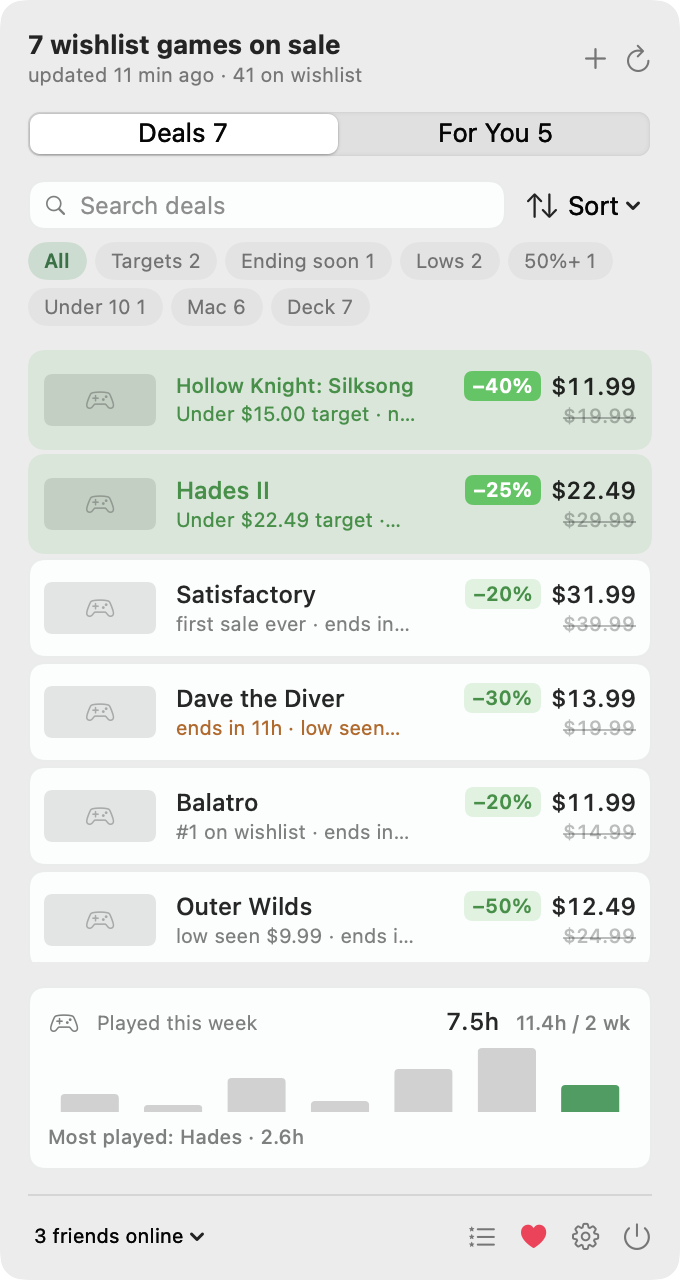
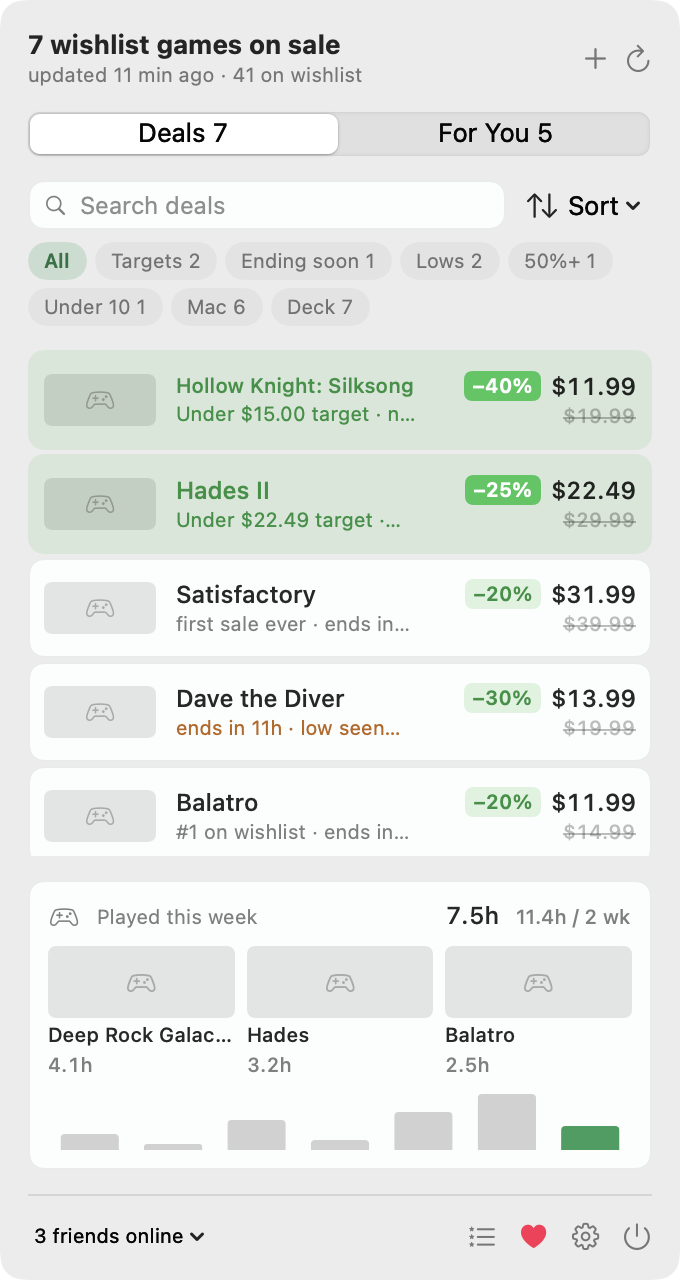
Fix the false 'API key rejected' error; playtime card shows game art
GetFriendList answers 401 for a valid key when the friends list is private,
which was reported as a rejected key. It now means 'no friends shown', with a
hint in Settings. Owned games are fetched on refresh (every six hours), not
only alongside suggestions. The playtime card scales its bars to a real
range, leads with the two-week total until daily data exists, and shows the
three most-played games' art. Adds --check-key.

Changed region(s): [[0.0618, 0.6875, 0.9265, 0.9062]]

diff --git a/Sources/Steamwatch/PopoverView.swift b/Sources/Steamwatch/PopoverView.swift
@@ -550,34 +550,73 @@ struct PlaytimeCard: View {
     var body: some View {
         let days = store.playtime.daily(days: 7, now: store.now)
         let week = days.reduce(0) { $0 + $1.minutes }
-        VStack(alignment: .leading, spacing: 6) {
+        // Daily bars need a day of samples; until then the honest number is Steam's two-week total.
+        let tracking = week > 0 || store.playtime.samples.count > 1 && (store.playtime.samples.first.map { store.now.timeIntervalSince($0.date) > 86_400 } ?? false)
+        let peak = max(60, days.map(\.minutes).max() ?? 0)
+        let recent = store.recentGames.sorted { $0.minutesTwoWeeks > $1.minutesTwoWeeks }.prefix(3)
+        VStack(alignment: .leading, spacing: 8) {
             HStack(alignment: .firstTextBaseline) {
-                Label("Played this week", systemImage: "gamecontroller").font(.caption).foregroundStyle(.secondary)
+                Label(tracking ? "Played this week" : "Played in the last 2 weeks", systemImage: "gamecontroller")
+                    .font(.caption).foregroundStyle(.secondary)
                 Spacer()
-                Text(Format.hours(week)).font(.callout.weight(.medium)).monospacedDigit()
-                if let avg = store.playtime.weeklyAverageMinutes(now: store.now) {
+                Text(Format.hours(tracking ? week : store.twoWeekMinutes)).font(.callout.weight(.medium)).monospacedDigit()
+                if tracking, let avg = store.playtime.weeklyAverageMinutes(now: store.now) {
                     Text("avg \(Format.hours(avg))").font(.caption2).foregroundStyle(.secondary)
-                } else if store.twoWeekMinutes > 0 {
+                } else if tracking, store.twoWeekMinutes > 0 {
                     Text("\(Format.hours(store.twoWeekMinutes)) / 2 wk").font(.caption2).foregroundStyle(.secondary)
                 }
             }
-            Chart(days) { day in
-                BarMark(x: .value("Day", day.day, unit: .day), y: .value("Minutes", max(day.minutes, 2)))
-                    .foregroundStyle(Calendar.current.isDateInToday(day.day) ? Color(ns: Theme.accent) : Color.secondary.opacity(0.35))
-                    .cornerRadius(2)
+            if !recent.isEmpty {
+                HStack(spacing: 6) {
+                    ForEach(Array(recent)) { g in
+                        VStack(alignment: .leading, spacing: 2) {
+                            GameArt(appID: g.appID)
+                            Text(g.name).font(.caption2).lineLimit(1)
+                            Text(Format.hours(g.minutesTwoWeeks)).font(.caption2).foregroundStyle(.secondary).monospacedDigit()
+                        }
+                        .frame(maxWidth: .infinity, alignment: .leading)
+                        .contentShape(Rectangle())
+                        .onTapGesture { SteamLink.open(URL(string: "https://store.steampowered.com/app/\(g.appID)/")!) }
+                        .help("\(g.name): \(Format.hours(g.minutesTwoWeeks)) in the last two weeks, \(Format.hours(g.minutesForever)) in total")
+                    }
+                    ForEach(0..<(3 - recent.count), id: \.self) { _ in Color.clear.frame(maxWidth: .infinity) }
+                }
             }
-            .chartXAxis(.hidden).chartYAxis(.hidden)
-            .frame(height: 32)
-            if let top = store.playtime.mostPlayed(now: store.now) {
-                Text("Most played: \(top.name) · \(Format.hours(top.minutes))").font(.caption2).foregroundStyle(.secondary).lineLimit(1)
-            } else if let top = store.recentGames.max(by: { $0.minutesTwoWeeks < $1.minutesTwoWeeks }) {
-                Text("Recent: \(top.name) · \(Format.hours(top.minutesTwoWeeks)) in 2 wk").font(.caption2).foregroundStyle(.secondary).lineLimit(1)
+            if tracking {
+                Chart(days) { day in
+                    BarMark(x: .value("Day", day.day, unit: .day), y: .value("Minutes", day.minutes))
+                        .foregroundStyle(Calendar.current.isDateInToday(day.day) ? Color(ns: Theme.accent) : Color.secondary.opacity(0.35))
+                        .cornerRadius(2)
+                }
+                // A fixed floor keeps quiet days looking quiet instead of stretching to fill.
+                .chartYScale(domain: 0...peak)
+                .chartXAxis(.hidden).chartYAxis(.hidden)
+                .frame(height: 28)
+            } else if store.recentGames.isEmpty {
+                Text("Nothing played in the last two weeks.").font(.caption2).foregroundStyle(.secondary)
             } else {
-                Text("Daily bars fill in as Steamwatch keeps watching.").font(.caption2).foregroundStyle(.secondary)
+                Text("Daily bars fill in from today as Steamwatch keeps watching.").font(.caption2).foregroundStyle(.tertiary)
             }
         }
         .padding(10)
         .card()
+    }
+}
+
+/// Steam's capsule art for any app, straight from its CDN by ID (recently played games don't come
+/// with store data). Placeholder while loading, or in demo mode.
+struct GameArt: View {
+    let appID: AppID
+    var body: some View {
+        AsyncImage(url: Demo.isActive ? nil : URL(string: "https://cdn.cloudflare.steamstatic.com/steam/apps/\(appID)/capsule_231x87.jpg")) { image in
+            image.resizable().aspectRatio(contentMode: .fill)
+        } placeholder: {
+            RoundedRectangle(cornerRadius: 4).fill(.quaternary)
+                .overlay(Image(systemName: "gamecontroller").font(.caption2).foregroundStyle(.tertiary))
+        }
+        .frame(height: 36)
+        .frame(maxWidth: .infinity)
+        .clipShape(RoundedRectangle(cornerRadius: 4))
     }
 }
 

diff --git a/Sources/SteamwatchCore/SteamClient.swift b/Sources/SteamwatchCore/SteamClient.swift
@@ -9,6 +9,7 @@ public enum SteamError: Error, LocalizedError, Equatable {
     case badAPIKey
     case missingAPIKey
     case privateProfile
+    case privateFriends
     case vanityNotFound
     case decoding(String)
     case transport(String)
@@ -20,6 +21,7 @@ public enum SteamError: Error, LocalizedError, Equatable {
         case .badAPIKey: return "Steam rejected the API key."
         case .missingAPIKey: return "This needs a Steam Web API key."
         case .privateProfile: return "The profile or its game details are private."
+        case .privateFriends: return "Your friends list is private, so friends online can't be shown."
         case .vanityNotFound: return "No Steam profile has that custom URL."
         case .decoding(let m): return "Unexpected response from Steam (\(m))."
         case .transport(let m): return m
@@ -226,13 +228,17 @@ public struct SteamClient: Sendable {
                               struct L: Decodable { let friends: [F] }
                               struct Resp: Decodable { let friendslist: L? }; let friendslist: L? }
         // Steam wraps this one differently from the IPlayerService calls: {"friendslist":{"friends":[…]}}.
-        let r: R = try await get("ISteamUser/GetFriendList/v1/", [("steamid", steamID), ("relationship", "friend")], keyed: true)
+        let r: R = try await get("ISteamUser/GetFriendList/v1/", [("steamid", steamID), ("relationship", "friend")], keyed: true,
+                                 unauthorized: .privateFriends)
         return (r.friendslist?.friends ?? []).map(\.steamid)
     }
 
     // MARK: Plumbing
 
-    private func get<T: Decodable>(_ path: String, _ query: [(String, String)], keyed: Bool, base: URL = SteamClient.api) async throws -> T {
+    /// `unauthorized` is what a 401/403 means for this call: usually a bad key, but GetFriendList
+    /// answers 401 for a valid key when the friends list is private.
+    private func get<T: Decodable>(_ path: String, _ query: [(String, String)], keyed: Bool, base: URL = SteamClient.api,
+                                   unauthorized: SteamError = .badAPIKey) async throws -> T {
         var items = query.map { URLQueryItem(name: $0.0, value: $0.1) }
         if keyed {
             guard let apiKey, !apiKey.isEmpty else { throw SteamError.missingAPIKey }
@@ -258,7 +264,7 @@ public struct SteamClient: Sendable {
                 case 200..<300:
                     do { return try JSONDecoder().decode(T.self, from: data) }
                     catch { throw SteamError.decoding(String(describing: error).prefix(120).description) }
-                case 401 where keyed, 403 where keyed: throw SteamError.badAPIKey
+                case 401 where keyed, 403 where keyed: throw unauthorized
                 case 401, 403: throw SteamError.privateProfile
                 case 429: failure = .rateLimited
                 case 500...599: failure = .http(status)

diff --git a/Sources/Steamwatch/Store.swift b/Sources/Steamwatch/Store.swift
@@ -247,15 +247,24 @@ final class Store: ObservableObject {
         } catch {
             errors.append(error.localizedDescription)
         }
+        // The library changes rarely; every six hours keeps owned games out of For You.
+        if owned == nil || Date().timeIntervalSince(ownedFetchedAt) > 6 * 3600 {
+            if let games = try? await client.ownedGames(steamID: id) { owned = games; ownedFetchedAt = Date() }
+        }
         if UserDefaults.standard.bool(forKey: SettingsKey.showFriends) {
             do {
                 let ids = try await client.friendIDs(steamID: id)
+                friendsPrivate = false
                 let online = ids.isEmpty ? [] : try await client.playerSummaries(ids).filter(\.isOnline)
                 // In-game friends first, then alphabetical.
                 friendsOnline = online.sorted { a, b in
                     if (a.currentGame == nil) != (b.currentGame == nil) { return a.currentGame != nil }
                     return a.name.localizedCaseInsensitiveCompare(b.name) == .orderedAscending
                 }
+            } catch SteamError.privateFriends {
+                // Not an error: the key works, the user just keeps friends private.
+                friendsPrivate = true
+                friendsOnline = []
             } catch {
                 errors.append(error.localizedDescription)
             }
@@ -410,6 +419,9 @@ final class Store: ObservableObject {
     @Published private(set) var dismissed: Set<AppID> = Set(UserDefaults.standard.array(forKey: SettingsKey.dismissedSuggestions) as? [Int] ?? [])
     /// Owned games, fetched with the API key so suggestions skip them; nil without a key.
     private var owned: Set<AppID>?
+    private var ownedFetchedAt = Date.distantPast
+    /// GetFriendList refused: the friends list is private (the key itself is fine).
+    @Published private(set) var friendsPrivate = false
     private var tagNameCache: [Int: String] = [:]
 
     /// Games the user marked "I already own this"; works without an API key.
@@ -432,6 +444,7 @@ final class Store: ObservableObject {
     func saveAPIKey(_ key: String) {
         Keychain.save(key.trimmingCharacters(in: .whitespacesAndNewlines), .apiKey)
         owned = nil
+        ownedFetchedAt = .distantPast
         Task {
             await refresh(force: true)
             await refreshSuggestions(force: true)

diff --git a/Sources/Steamwatch/Entry.swift b/Sources/Steamwatch/Entry.swift
@@ -14,6 +14,7 @@ enum Entry {
         if args.contains("--once") { runOnce() }
         if let i = args.firstIndex(of: "--search"), i + 1 < args.count { runSearch(args[i + 1]) }
         if args.contains("--suggest") { runSuggest() }
+        if args.contains("--check-key") { runCheckKey() }
         if args.contains("--check-update") || args.contains("--update") {
             runUpdate(install: args.contains("--update"))
         }
@@ -42,6 +43,34 @@ enum Entry {
 }
 
 extension Entry {
+    /// `--check-key`: try each call that needs the Web API key and print its HTTP status. The key
+    /// itself is never printed.
+    @MainActor
+    static func runCheckKey() -> Never {
+        let store = Store()
+        Task { @MainActor in
+            guard let key = store.apiKey, !key.isEmpty else { print("no API key saved"); exit(1) }
+            let id = store.steamID
+            print("key: \(key.count) characters, \(key.allSatisfy(\.isHexDigit) ? "hex" : "NOT hex (expected 32 hex characters)")")
+            let calls: [(String, [(String, String)])] = [
+                ("IPlayerService/GetRecentlyPlayedGames/v1/", [("steamid", id)]),
+                ("ISteamUser/GetPlayerSummaries/v2/", [("steamids", id)]),
+                ("ISteamUser/GetFriendList/v1/", [("steamid", id), ("relationship", "friend")]),
+                ("IPlayerService/GetOwnedGames/v1/", [("steamid", id), ("include_played_free_games", "1")]),
+            ]
+            for (path, query) in calls {
+                var comps = URLComponents(url: SteamClient.api.appendingPathComponent(path), resolvingAgainstBaseURL: false)!
+                comps.queryItems = query.map { URLQueryItem(name: $0.0, value: $0.1) } + [URLQueryItem(name: "key", value: key)]
+                let (data, status) = (try? await URLSessionTransport().get(comps.url!)) ?? (Data(), -1)
+                let body = String(decoding: data.prefix(80), as: UTF8.self).replacingOccurrences(of: key, with: "<key>")
+                print("\(status)\t\(path)\t\(status == 200 ? "\(data.count) bytes" : body)")
+            }
+            exit(0)
+        }
+        RunLoop.main.run()
+        exit(0)
+    }
+
     /// `--suggest`: refresh, then fetch and print suggestions (ignores the twice-a-day limit).
     @MainActor
     static func runSuggest() -> Never {

diff --git a/Sources/Steamwatch/SettingsView.swift b/Sources/Steamwatch/SettingsView.swift
@@ -119,6 +119,11 @@ struct SettingsView: View {
                 }
                 Toggle("Playtime section", isOn: $showPlaytime)
                 Toggle("Friends online", isOn: $showFriends)
+                    .help(store.friendsPrivate ? "Your friends list is private on Steam, so nobody can be shown." : "Needs a Web API key and a public friends list.")
+                if store.friendsPrivate, showFriends {
+                    Text("Your Steam friends list is private, so friends online stays empty. Steam → Edit Profile → Privacy → Friends List: Public to change that.")
+                        .font(.caption).foregroundStyle(.secondary)
+                }
                 Toggle("“You might like” suggestions", isOn: $showSuggestions)
                     .onChange(of: showSuggestions) { _, on in if on { Task { await store.refreshSuggestions(force: true) } } }
                     .help("Discounted, well-reviewed games that share tags with your wishlist. Checked twice a day.")

diff --git a/Tests/SteamwatchCoreTests/CoreTests.swift b/Tests/SteamwatchCoreTests/CoreTests.swift
@@ -572,6 +572,10 @@ final class WireDecodingTests: XCTestCase {
         do { _ = try await noKey.recentlyPlayed(steamID: "1"); XCTFail() } catch { XCTAssertEqual(error as? SteamError, .missingAPIKey) }
         let badKey = SteamClient(transport: Stub(status: 403), apiKey: "x", retryDelays: [])
         do { _ = try await badKey.recentlyPlayed(steamID: "1"); XCTFail() } catch { XCTAssertEqual(error as? SteamError, .badAPIKey) }
+        let privateFriends = SteamClient(transport: Stub(status: 401), apiKey: "x", retryDelays: [])
+        do { _ = try await privateFriends.friendIDs(steamID: "1"); XCTFail() } catch {
+            XCTAssertEqual(error as? SteamError, .privateFriends, "GetFriendList's 401 means a private list, not a bad key")
+        }
         let limited = SteamClient(transport: Stub(status: 429), retryDelays: [0])
         do { _ = try await limited.wishlist(steamID: "1"); XCTFail() } catch { XCTAssertEqual(error as? SteamError, .rateLimited) }
     }

diff --git a/README.md b/README.md
@@ -117,6 +117,7 @@ build/Steamwatch.app/Contents/MacOS/Steamwatch --once          # fetch once and 
 build/Steamwatch.app/Contents/MacOS/Steamwatch --once --demo   # same with sample data
 build/Steamwatch.app/Contents/MacOS/Steamwatch --search "hades"   # the store search, printed
 build/Steamwatch.app/Contents/MacOS/Steamwatch --suggest           # fetch and print suggestions
+build/Steamwatch.app/Contents/MacOS/Steamwatch --check-key         # HTTP status of each keyed call (never prints the key)
 build/Steamwatch.app/Contents/MacOS/Steamwatch --snapshot docs --demo   # README screenshots
 ```
 
@@ -172,7 +173,7 @@ Data lives in `~/Library/Application Support/Steamwatch/` (`price-history.json`,
 | `IStoreBrowseService/GetItems` | no | names, capsule art, prices, sale end dates, review summary, platforms (50 apps per request) |
 | `IPlayerService/GetRecentlyPlayedGames` | yes | playtime |
 | `ISteamUser/GetPlayerSummaries` | yes | your status, friends' status and current game |
-| `ISteamUser/GetFriendList` | yes | friend IDs (public friends lists only) |
+| `ISteamUser/GetFriendList` | yes | friend IDs; answers 401 for a private friends list, which Steamwatch treats as "no friends shown", not a bad key |
 | `ISteamUser/ResolveVanityURL` | yes | custom profile URLs → SteamID64 |
 
 Default refresh is every 30 minutes: 1 wishlist call plus one store call per 50 wishlisted games,
